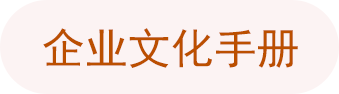
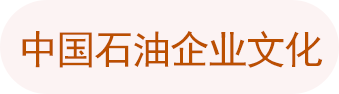
bugfix

Changed region(s): [[0.059, 0.2979, 0.9735, 0.7234]]

diff --git a/src/main/resources/static/web/css/category.css b/src/main/resources/static/web/css/category.css
@@ -15,3 +15,9 @@ body{
     width: 100%;
     padding-top: 320px;
 }
+
+.c-culture{
+    width: 100%;
+    text-align: center;
+    margin-top: 8rem;
+}
